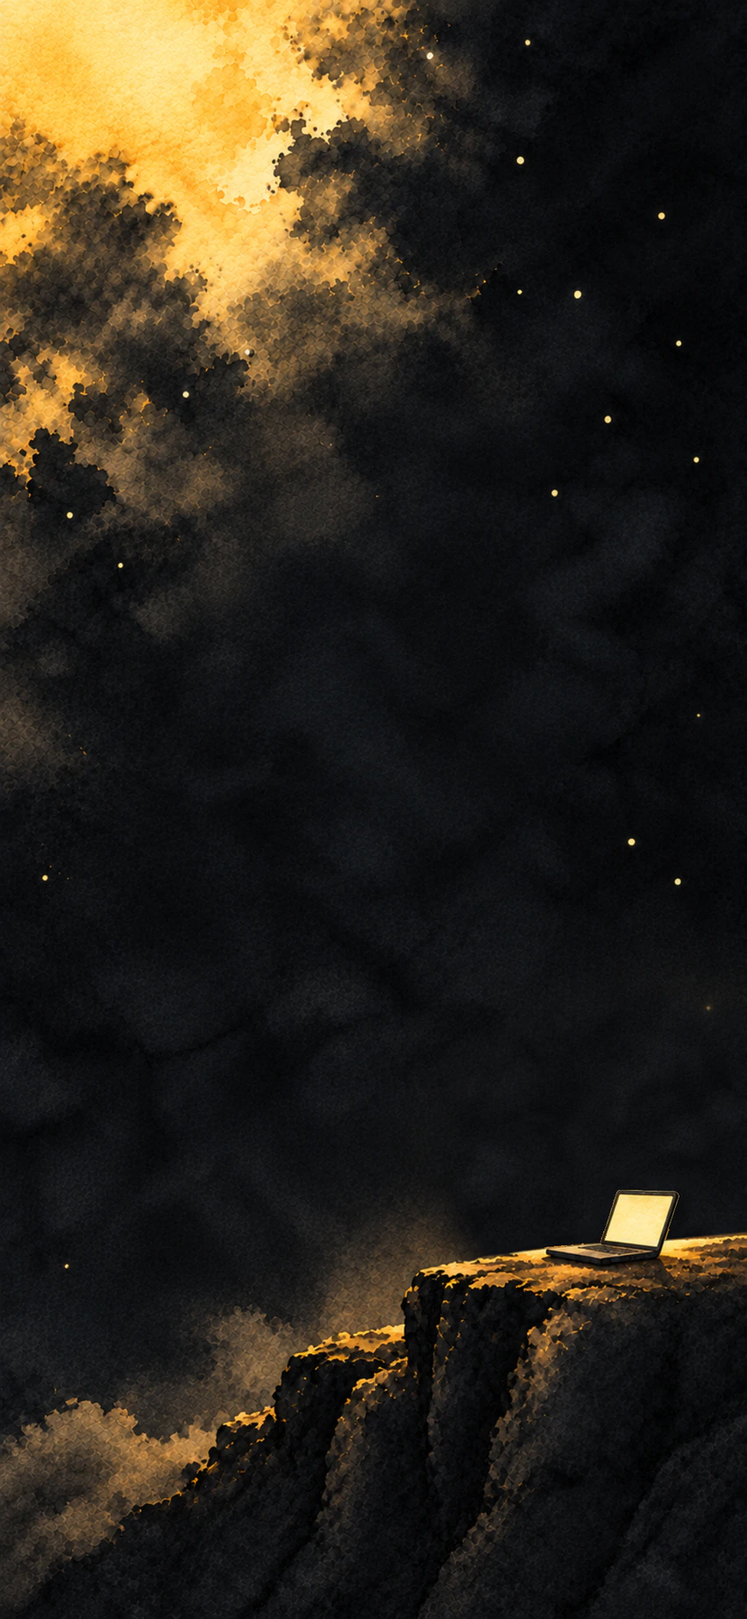
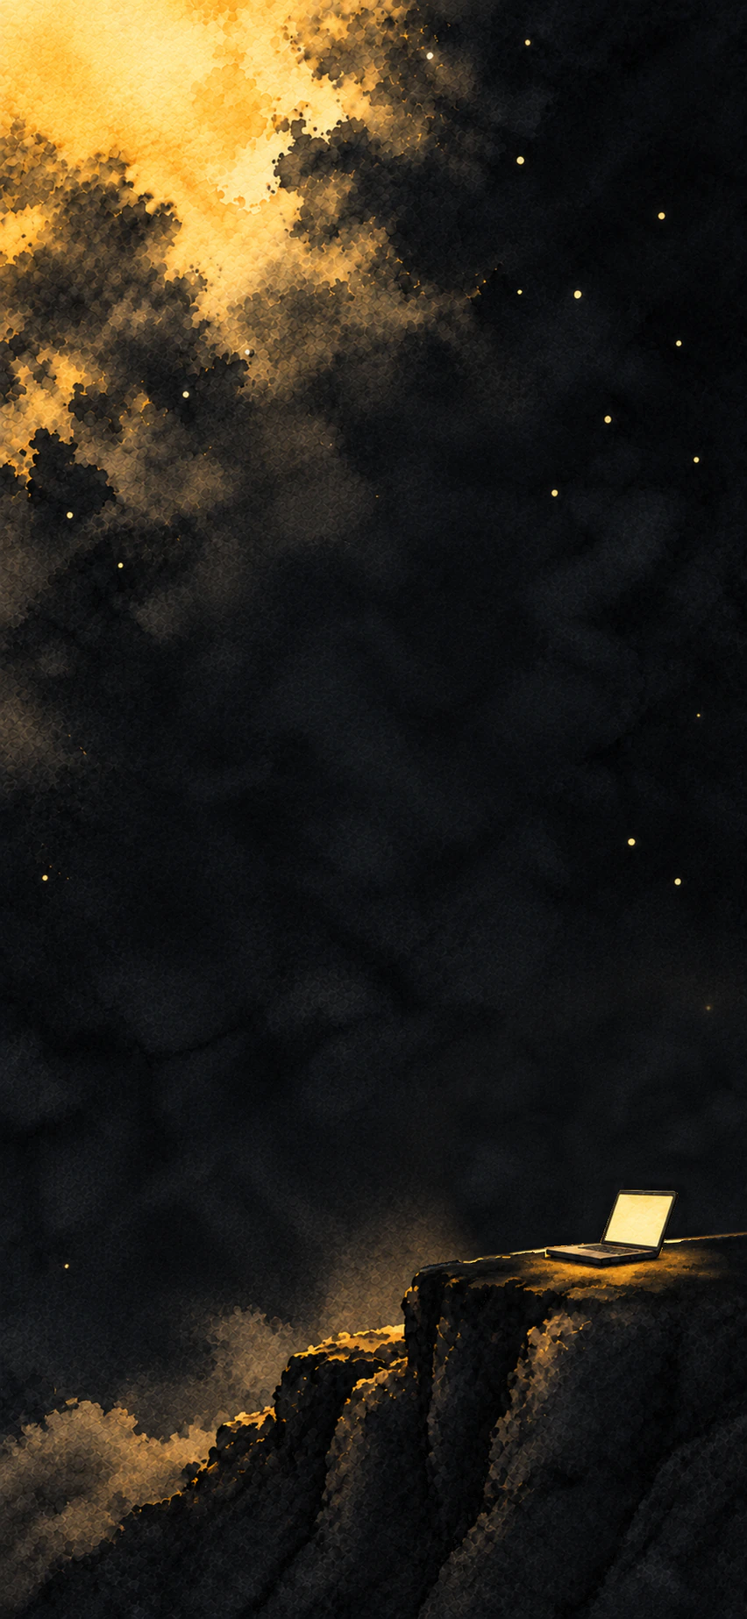
Repainted sunrise laptop and making cliff light, rebuilt assets
- Sunrise: new warm watercolor laptop on its own flat rock (Astra, gpt-6-astra),
  placed beside the coffee at ~2.2x the mug width (smaller on mobile), glint on
  the lid's sunlit edge; art.ts regenerated
- Making: cliff top inpainted so the light pools around the laptop screen and
  the warm bezel fringe is gone; laptop, screen and silhouette pixel-identical
  (audit masks in docs/art/making/cliff-light-masks/); plates rebuilt

Changed region(s): [[0.5493, 0.7411, 1.0, 0.8337]]

diff --git a/src/lib/home/sections/sunrise/layout.ts b/src/lib/home/sections/sunrise/layout.ts
@@ -40,9 +40,11 @@ const PATH_SURFACE: [number, number][] = [
 /** Coffee master (600×600): where the rock meets the ground, and the box above the cup mouth for the steam. */
 const COFFEE_BASE = { x: 300, y: 530 };
 const COFFEE_STEAM: Rect = { x: 222, y: -230, w: 150, h: 420 };
-/** Laptop master (docs/art/sunrise/sunrise-laptop.png): where its underside meets the ground, and the lid's sunlit edge for the glint. */
-const LAPTOP_BASE = { x: 599, y: 500 };
-const LAPTOP_GLINT: Rect = { x: 820, y: 250, w: 240, h: 150 };
+/** Laptop master (docs/art/sunrise/sunrise-laptop.png, 1400×700, the closed laptop on its own flat rock): where the rock's
+ *  broad base meets the ground (a little above its rounded lowest point, so it sits in the path), and the lid's sunlit
+ *  right edge for the glint. */
+const LAPTOP_BASE = { x: 670, y: 588 };
+const LAPTOP_GLINT: Rect = { x: 1000, y: 150, w: 240, h: 220 };
 /** The sun baked into each sky plate (fraction of the plate), see docs/art/sunrise/README.md. */
 const SKY_SUN: Record<Breakpoint, { x: number; y: number }> = { desktop: { x: 0.79, y: 0.68 }, mobile: { x: 0.78, y: 0.5 } };
 
@@ -74,7 +76,8 @@ const PLACEMENT: Record<Breakpoint, Placement> = {
 		valley: { x: 0, y: 29.2, w: 100 },
 		cliffPath: { x: -2, y: 46.5, w: 104 },
 		coffee: { x: 9.5, w: 8.6, sink: 0.6 },
-		laptop: { x: 21, w: 17.2, sink: 0.6 },
+		// body ≈ 2.2 × the mug's width (the masters' px scale: coffee ÷ 1.286, docs/art/sunrise/README.md)
+		laptop: { x: 22, w: 15.6, sink: 0.6 },
 		nightEdge: { x: 0, w: 100, from: 30, to: -52 },
 		sunGlow: 22
 	},
@@ -83,7 +86,8 @@ const PLACEMENT: Record<Breakpoint, Placement> = {
 		valley: { x: -82, y: 26, w: 205 },
 		cliffPath: { x: -14, y: 52, w: 150 },
 		coffee: { x: 12, w: 22, sink: 1 },
-		laptop: { x: 42, w: 44, sink: 1 },
+		// smaller than the desktop ratio, so it doesn't dominate the narrow scene
+		laptop: { x: 37, w: 33, sink: 1 },
 		nightEdge: { x: -80, w: 260, from: 55, to: -50 },
 		sunGlow: 46
 	}

diff --git a/src/lib/home/sections/sunrise/art.ts b/src/lib/home/sections/sunrise/art.ts
@@ -13,5 +13,5 @@ export const ART_BOXES = {
 	valley: { canvas: { width: 2560, height: 900 }, crop: { x: 0, y: 256, width: 2560, height: 641 } },
 	cliffPath: { canvas: { width: 2560, height: 600 }, crop: { x: 0, y: 38, width: 2560, height: 534 } },
 	coffee: { canvas: { width: 600, height: 600 }, crop: { x: 5, y: 141, width: 592, height: 424 } },
-	laptop: { canvas: { width: 1200, height: 600 }, crop: { x: 89, y: 117, width: 995, height: 403 } }
+	laptop: { canvas: { width: 1400, height: 700 }, crop: { x: 35, y: 145, width: 1334, height: 487 } }
 } as const satisfies Record<string, ArtBox>;

diff --git a/src/lib/home/sections/sunrise/Sunrise.svelte b/src/lib/home/sections/sunrise/Sunrise.svelte
@@ -116,7 +116,7 @@
 			alt=""
 			class="placed art"
 			style={place.laptop}
-			sizes="(min-width: 48rem) 14vw, 36vw"
+			sizes="(min-width: 48rem) 15vw, 32vw"
 			loading="lazy"
 			decoding="async"
 		/>

diff --git a/docs/art/sunrise/PROMPTS.md b/docs/art/sunrise/PROMPTS.md
@@ -94,52 +94,58 @@ Inspected every generation and the final composite. Cutouts checked over #FCD772
 
 ## sunrise-laptop.png
 
-Repainted on 2026-11-03 with the built-in image_gen tool, highest available quality requested. The tool exposes no separate model, quality, or exact-size argument. No CLI/API fallback or dependency installation.
+Replaced on 2026-11-03 using the built-in image_gen tool with highest available quality requested. The tool exposes no model selector, quality parameter or exact-size parameter. All three generations were native 1774×887 RGBA. No CLI/API fallback, installation or git commands.
 
-References (opened and inspected before prompting): `sunrise-coffee.png` (strict painting hand, ink, grain, scale and camera lock), `sunrise-cliff-path.png` (ground and light), `sunrise-valley.png` and `sunrise-sky.png` (palette and atmosphere), the rejected `sunrise-laptop.png`, and its QA composite `C:/Users/peter/AppData/Local/Temp/sunrise-laptop-qa-X6xK4f/laptop-coffee-path.png`. The old QA composite was inspection context only.
+All four references were opened and inspected, then passed to every generation in this order:
 
-Final generated source: `exec-faa50f6e-5dff-47bd-bba9-e629be963548.png`, native 1774×887, from the tool's `generated_images/01a1a348-d1f1-70b2-9e89-449f48e4302e/` directory.
+1. sunrise-coffee.png: ink weight, pigment and camera height.
+2. sunrise-valley.png: palette and atmosphere.
+3. sunrise-cliff-path.png: warm rock material and foreground light.
+4. sunrise-sky.png: low butter/ochre sun from the right.
 
-Rejected original: `exec-1f4c8a8d-f952-42aa-b96b-41f46c278c0b.png`. The art lead rejected its machine-rounded outline, tablet-like thinness and missing hinge, weak contact shadow, and overly uniform orange mottling. The previous acceptance notes are superseded. The earlier tan-ground-halo attempt also remains rejected.
+The previously rejected sunrise-laptop.png was not opened or passed as a style reference. Its old acceptance notes are superseded by this replacement.
 
-First repaint, references in order: coffee, cliff path, sky, valley, rejected laptop (pose only). Rejected source: `exec-9343e093-a738-441b-8185-19a9a6445303.png`. Hinge and base improved, but the front contour remained too regular and a pale gray shadow fringe appeared on anthracite.
+### Attempt 1 — rejected
 
-```text
-Use case: illustration-story. Repaint ONE transparent watercolor-and-ink production sprite: a CLOSED LAPTOP, lying flat, the shift is over. Highest available generation quality and fidelity. Intended final canvas 1200x600 (2:1). Real transparent RGBA, generous transparent margins, nothing cropped.
-REFERENCES: image 1 sunrise-coffee.png is the STRICT STYLE LOCK: exactly the same painter's hand, same dark sepia hand-drawn ink with subtly wobbly varying weight, same pigment granulation, paper grain within paint, watercolor pooling and soft bleeding pigment edges. Image 2 cliff path is context for ground contact and upper-right light. Image 3 sky and image 4 valley are palette/atmosphere only. Image 5 is a REJECTED previous laptop: use only its approximate placement and foreshortened pose, DO NOT copy its machine-perfect contours, tablet thinness, even orange blotches or smooth rendered appearance.
-Paint the laptop afresh as an ink-and-watercolor drawing made by the artist who painted the mug. The outer edges must be human ink strokes with slight irregularity and intermittent pigment bleed, including subtly irregular corners. Not a perfect rounded rectangle filled with watercolor texture. No CAD or vector shape, no product rendering, no smooth bevel shader. The linework must be as visible and expressive as the mug's outline at the SAME PIXEL SCALE.
-Unmistakably a CLOSED LAPTOP: two distinct stacked slabs, thin lid seated on a visibly thicker base, dark separation seam. A visible rounded hinge barrel runs along the rear edge with small breaks at its ends. Show a discreet dark port slot on the shaded side and one tiny rubber foot in contact with the ground. Lid fully shut with no screen visible. Unbranded blank lid, no symbols.
-Geometry: three-quarter view from slightly above, matching the shallow ellipse of the coffee rim. Foreshortened parallelogram, rotated roughly 15–25 degrees in plan, broad front edge visible. Body approx 950 pixels wide on 1200 canvas; coffee mug including handle is approx 370 px. Lowest front body corner meets ground around y=500. Keep top plane shallow enough for this camera; body thickness visible and painterly, not a chunky box.
-VALUE AND LIGHT: anthracite #18191B and dusk #2A2723 painted metal. Cool dark gray left/front shaded faces. Soft butter #FCD772 and ochre #E2A93B glazes gather on the upper-right portion of lid, smoothly transition through neutral gray into darker cool left. Restrained organic blooms and grain, NOT orange camouflage all over. A slender crisp cream #FBF3DD / butter hand-painted highlight follows right and top lid edges, with small natural ink interruptions, as on the mug's sunlit rim. Light comes from upper right.
-GROUND CONTACT: a DARK warm sepia occlusion stroke tightly touches the entire underside, darkest at the lowest front corner. Short soft semi-transparent dark dusk watercolor shadow hugs underside and falls a little LEFT. The shadow must visibly ground it on an ochre path; no light pigment underlay, no tan paper halo. Only dark transparent pigment outside body, fading into actual transparency. Absolutely no painted ground or rock.
-Palette limited to cream #FBF3DD, butter #FCD772, ochre #E2A93B, anthracite #18191B, dusk #2A2723 and related cool gray watercolor mixtures. NO exact white/black. No logo, text, sticker, cup, steam, rock, landscape, character, UI, frame, checkerboard or opaque backdrop. The only output is the laptop and its short dark contact shadow.
-```
+Source: `C:/Users/peter/.codex/generated_images/01a1a373-a5ca-7cf1-85cf-b29b7873617f/exec-9edd3705-e974-4ec6-9fc7-0e0e9c6c2594.png`.
 
-Second repaint, references in order: coffee, cliff path. Source: `exec-6e84aa7a-c3c0-4255-8554-75d7eccd4f74.png`. Accepted the more irregular ink contour, two slabs, hinge barrel and joints, side port, small feet and structured light; rejected the remaining gray underlay visible on the dark background.
+Inspected on butter and anthracite and beside the mug at a 2.2:1 body-width ratio. Warm illumination and contact were convincing, but the body read champagne gold instead of silver, and the perimeter was too uniformly smooth.
 
 ```text
-Use case: illustration-story. Paint a closed laptop in EXACTLY the traditional watercolor and ink style of reference image 1, the coffee mug. Image 2 is the path it will sit on, for lighting only. This is one isolated production PNG on REAL TRANSPARENT ALPHA, requested 1200x600. Highest available quality. No background, no paper rectangle. Only laptop and short DARK transparent shadow.
-The SAME ILLUSTRATOR who drew this mug has drawn a closed laptop next to it: variable-weight dark sepia ink, hand wobble along long edges, tiny overlapping pen strokes at corners, natural ink bleed into pigment, imperfect gently uneven contour. Hand-drawn first, pigment watercolor second. Do not draw a geometrically perfect shape and texture it. Match the mug's fine paper fibers, translucent granular washes and irregular pigment pooling. No smooth digital rendering, no photoreal metal, no vector bevels, no airbrushed uniform surfaces. Ink line thickens in shade and becomes thin and interrupted in the sun.
-Closed generic laptop lying flat on the ground, lid completely shut. Foreshortened parallelogram, three-quarter camera slightly above like the coffee mug, rotated 15-25 degrees in plan. Thin lid on thicker base, obvious dark lid/base seam. Visible rounded rear hinge barrel joining lid and base, with two modest hinge joints. One subtle side port, small rubber foot. No logo, no text, no sticker, no screen.
-Object about 950px wide on 1200x600 canvas, centered x=600, lowest front corner contact around y=500, fully visible with transparent padding. Visible top plane, front and side faces. Body modestly thick enough to read as a laptop; not a tablet and not a box.
-A quiet dark anthracite/dusk lid illuminated from UPPER RIGHT by butter-yellow dawn. Cool charcoal watercolor shade on left third and front face. Soft warm butter glazes on right third; muted gray midtones connect them. Restrained irregular watercolor blooms and granulation, not orange camouflage. Slim crisp cream/butter broken brush highlight on right edge and top edge of lid, like cup rim. Palette cream #FBF3DD, butter #FCD772, ochre #E2A93B, anthracite #18191B, dusk #2A2723; related muted grays allowed.
-The base rests HEAVILY against the ground with a DARK sepia-black occlusion line immediately beneath it, especially front corner. A SHORT shadow of TRANSLUCENT DARK PIGMENT hugs underside and extends a little LEFT. This shadow is made only of dark #18191B / #2A2723 pigment at partial opacity. NO PALE GRAY, TAN OR CREAM SHADOW PIXELS, NO LIGHT UNDERLAY, NO GROUND PATCH, NO HALO. Outside body and dark translucent shadow everything is transparent. Shadow should almost disappear when placed on #18191B. Preserve real graded alpha. Do not paint paper outside the object.
-Nothing except closed laptop and small dark contact shadow. No cup, rock, grass, scenery, person, text, logo, UI, frame, pure black or pure white.
+Use case: stylized-concept. Highest available image quality. Production watercolor-and-ink cutout for solo-stack.dev. References in order: 1 coffee mug is the exact ink line weight, pigment granulation and camera-height reference; 2 sunrise valley, 3 sunrise cliff path, 4 sunrise sky are the warm palette and low sun from the right references. These are style references only, do not reproduce the mug or landscape. Transparent PNG, 1400×700. A closed silver laptop lying slightly askew on a flat grey rock, the same watercolor-and-ink style as the attached sunrise valley and coffee mug: warm butter-yellow #FCD772 and ochre light from a low sun at the right, anthracite #1C1D1D ink linework matching the mug's weight, lid catching a warm glint along its right edge, cool-free palette (no blue). Soft painted contact shadow and a few dry grass blades in front. Three-quarter view from slightly above, same camera height as the mug. No logo, no text, no stickers, no screen visible. Granulating pigment, paper grain, real alpha with fractional edges. Silver is WARM light grey with taupe shaded areas and a definite butter reflected light, never blue-grey. Match the mug's thin irregular anthracite ink contour when the laptop body is displayed at 2.2 times the mug width including handle. The rock is a low broad flat stone, not a tall pedestal; rock shadows have the warm charcoal pigment of the reference rocks. Clearly closed laptop with thin lid over slightly thicker base and readable separation seam. Warm glint on right edge, left underside visibly occluded onto the stone; irregular wet-on-wet pigment blooms and fine paper tooth in both metal and rock. This is a hand-painted illustration, not product rendering or vector art. Complete isolated subject with generous truly transparent margins on ALL FOUR sides, no cropping. No background, no white paper sheet, no pale matte or halo, no checkerboard, no pure black or pure white. Preserve partially transparent pigmented perimeter.
 ```
 
-Final corrective generation, references in order: second repaint, coffee master. Replaced only the gray cast-shadow treatment with much darker translucent pigment while retaining the selected laptop drawing.
+### Attempt 2 — selected
+
+Source: `C:/Users/peter/.codex/generated_images/01a1a373-a5ca-7cf1-85cf-b29b7873617f/exec-0e6e0517-8129-4b82-89d0-df88a31f2925.png`.
+
+Selected after butter, anthracite and cliff-path/mug comparison. Better warm silver-gray body, localized right sunlight, lower camera angle, fine ink and integrated contact shadow.
 
 ```text
-Use case: precise-object-edit. Image 1 is the selected hand-painted closed laptop; image 2 is the coffee style lock. Preserve the laptop exactly: painterly irregular sepia ink contours, body proportions, perspective, lid/base seam, two rear hinge joints and barrel, small side port and feet, pigment texture and upper-right butter/cream light. Preserve original transparent 2:1 canvas and placement. Highest quality.
-Change ONLY the cast shadow outside/beneath the laptop. The current gray wash is visible as a pale border on an anthracite background. Replace it with MUCH DARKER neutral warm-black pigment, RGB approximately (24,23,23), at GRADED PARTIAL ALPHA. It must be a darkening shadow, not gray paper. Keep strongest dark occlusion touching front underside and feet; soft short feather toward LEFT. The entire shadow uses this very dark pigment with opacity variation; no light gray/brown/tan pigment outside the body. No extra ground, no opaque mat, no lighter perimeter, no detached shadow. Preserve watercolor softness in alpha. On #18191B, the shadow should practically vanish; on #FCD772 it should clearly darken the ground under the laptop. NO pure black/white, no white fringe. Do not change the laptop painting, camera, blank lid, or highlights. No other objects. Real transparent RGBA.
+Use case: stylized-concept. Highest available image quality. Production watercolor-and-ink cutout for solo-stack.dev. References in order: 1 coffee mug is the exact ink line weight, pigment granulation and camera-height reference; 2 sunrise valley, 3 sunrise cliff path, 4 sunrise sky are the warm palette and low sun from the right references. These are style references only, do not reproduce the mug or landscape. Transparent PNG, 1400×700. A closed silver laptop lying slightly askew on a flat grey rock, the same watercolor-and-ink style as the attached sunrise valley and coffee mug: warm butter-yellow #FCD772 and ochre light from a low sun at the right, anthracite #1C1D1D ink linework matching the mug's weight, lid catching a warm glint along its right edge, cool-free palette (no blue). Soft painted contact shadow and a few dry grass blades in front. Three-quarter view from slightly above, same camera height as the mug. No logo, no text, no stickers, no screen visible. Granulating pigment, paper grain, real alpha with fractional edges. Silver is WARM light grey with taupe shaded areas and a definite butter reflected light, never blue-grey. Match the mug's thin irregular anthracite ink contour when the laptop body is displayed at 2.2 times the mug width including handle. The rock is a low broad flat stone, not a tall pedestal; rock shadows have the warm charcoal pigment of the reference rocks. Clearly closed laptop with thin lid over slightly thicker base and readable separation seam. Warm glint on right edge, left underside visibly occluded onto the stone; irregular wet-on-wet pigment blooms and fine paper tooth in both metal and rock. This is a hand-painted illustration, not product rendering or vector art. Complete isolated subject with generous truly transparent margins on ALL FOUR sides, no cropping. No background, no white paper sheet, no pale matte or halo, no checkerboard, no pure black or pure white. Preserve partially transparent pigmented perimeter.
+Refinement for this fresh painting: the LAPTOP MUST READ AS SILVER, not gold, bronze, beige or cream ceramic. Most of the lid is light warm-neutral SILVER GRAY, made by a diluted warm anthracite wash: gray with only a faint warm bias (red >= green >= blue), with deeper warm charcoal shade at left. Reserve strong yellow/ochre sunlight to the right quarter and the narrow bright right edge. The stone is predominantly dark warm GRAY with a few ochre-lit areas, exactly like the mug's stone. Do not cover the laptop or rock in a uniform brown/tan glaze. Thin contour with human ink wobble, varying pressure, little interrupted strokes at lit edges; avoid a mechanically straight continuous vector contour. Keep all original subject, camera, alpha, and reference constraints.
 ```
 
-Export processing (existing sharp 0.35.5, no new dependencies):
+### Attempt 3 — rejected
 
-- Crop transparent margins from the 1774×887 source at (165,218,1398,553), retaining every source pixel with alpha >= 3. Lanczos3-resample to 983×389. Add transparent padding: left 94 px, right 123 px, top 125 px, bottom 86 px, for 1200×600. No body or shadow cropping, manual repainting, sharpening or color grading.
-- Preserve generated graded alpha; alpha < 3 becomes 0. Exact RGB (0,0,0) becomes #18191B and (255,255,255) becomes #FBF3DD, including hidden RGB. Save non-indexed 8-bit RGBA PNG with adaptive filtering and compression level 9.
-- Body width 950 px at the coffee master's pixel scale. Ground-contact anchor: **(766,500)** at the lowest front-right corner's small rubber foot; visual horizontal center: **x=599** (rounded body-bounds midpoint). Coordinates are zero-based from master top left; the anchor excludes the feathered shadow.
-- Code glint target: **(781,235,285,215)** as (x,y,width,height), enclosing the sunlit diagonal right edge of the lid. Its highlight runs approximately from (1058,245) to (790,442); follow that edge rather than filling the bounding rectangle. The rear hinge and top rim sit outside most of this box.
-- Verified 1200×600, 590,095 bytes, alpha 0–255 with 254 distinct levels (1 and 2 absent), 461,371 transparent pixels, 258,270 graded pixels, 359 fully opaque pixels, zero exact black/white RGB pixels, and fully transparent canvas borders. Nonzero-alpha bounds: (94,125)–(1076,513); alpha >= 250 body bounds: (124,127)–(1073,500).
-- Visually inspected over #FCD772 and #18191B, beside the coffee at equal 1:1 master scale, and on the cliff-path crop. Same-painter check: compatible granular washes and paper grain, visibly irregular sepia contours with dark seams and broken cream highlights. Closed-laptop check: distinct lid/base, rear hinge, port and feet. Grounding check: dark occlusion at the underside and foot, short shadow falling left; no light ground halo on anthracite.
-- QA files outside the repository: `C:/Users/peter/AppData/Local/Temp/sunrise-laptop-repaint-y4y6oc/` contains `laptop-butter.png`, `laptop-night.png`, `laptop-coffee-path.png`, `laptop-coffee-style.png`, `contact-detail.png` and `qa.json`. Path QA uses the left 1000×600 path crop at 3× scale, clipped to 1900×1200; laptop at (640,70), coffee at (50,-90), both at identical 1:1 master scale. Rejected original and attempt composites remain in the same temporary directory.
+Source: `C:/Users/peter/.codex/generated_images/01a1a373-a5ca-7cf1-85cf-b29b7873617f/exec-a7f37f38-b4a9-4d9e-b953-a10a18db4426.png`.
+
+Inspected on both brand backgrounds and the path beside the mug. Stronger charcoal rock texture, but a more top-down view than the mug and tighter side margins made it weaker than attempt 2.
+
+```text
+Use case: stylized-concept. Highest available image quality. Production watercolor-and-ink cutout for solo-stack.dev. References in order: 1 coffee mug is the exact ink line weight, pigment granulation and camera-height reference; 2 sunrise valley, 3 sunrise cliff path, 4 sunrise sky are the warm palette and low sun from the right references. These are style references only, do not reproduce the mug or landscape. Transparent PNG, 1400×700. A closed silver laptop lying slightly askew on a flat grey rock, the same watercolor-and-ink style as the attached sunrise valley and coffee mug: warm butter-yellow #FCD772 and ochre light from a low sun at the right, anthracite #1C1D1D ink linework matching the mug's weight, lid catching a warm glint along its right edge, cool-free palette (no blue). Soft painted contact shadow and a few dry grass blades in front. Three-quarter view from slightly above, same camera height as the mug. No logo, no text, no stickers, no screen visible. Granulating pigment, paper grain, real alpha with fractional edges. Silver is WARM light grey with taupe shaded areas and a definite butter reflected light, never blue-grey. Match the mug's thin irregular anthracite ink contour when the laptop body is displayed at 2.2 times the mug width including handle. The rock is a low broad flat stone, not a tall pedestal; rock shadows have the warm charcoal pigment of the reference rocks. Clearly closed laptop with thin lid over slightly thicker base and readable separation seam. Warm glint on right edge, left underside visibly occluded onto the stone; irregular wet-on-wet pigment blooms and fine paper tooth in both metal and rock. This is a hand-painted illustration, not product rendering or vector art. Complete isolated subject with generous truly transparent margins on ALL FOUR sides, no cropping. No background, no white paper sheet, no pale matte or halo, no checkerboard, no pure black or pure white. Preserve partially transparent pigmented perimeter.
+Refinement for this fresh painting: the LAPTOP MUST READ AS SILVER, not gold, bronze, beige or cream ceramic. Most of the lid is light warm-neutral SILVER GRAY, made by a diluted warm anthracite wash: gray with only a faint warm bias (red >= green >= blue), with deeper warm charcoal shade at left. Reserve strong yellow/ochre sunlight to the right quarter and the narrow bright right edge. The stone is predominantly dark warm GRAY with a few ochre-lit areas, exactly like the mug's stone. Do not cover the laptop or rock in a uniform brown/tan glaze. Thin contour with human ink wobble, varying pressure, little interrupted strokes at lit edges; avoid a mechanically straight continuous vector contour. Keep all original subject, camera, alpha, and reference constraints.
+Final style emphasis: the mug reference has deep charcoal mineral facets, broken ochre pigment on its rock, and varied very fine ink strokes. Match that exact stone contrast and irregular pigment shapes. Keep the flat supporting rock low with a narrow visible top and dark contact shadow directly beneath the laptop. The laptop's long perimeter is an expressive fine ink stroke with tiny interruptions, never a CAD stroke. Keep a quiet predominantly warm silver-gray center of lid, ochre light restricted toward right, visibly granular washed pigment with natural tide marks as on the mug. Avoid smooth airbrush over the rock.
+```
+
+### Export and QA
+
+- Existing sharp 0.35.5 only. Downsample the complete 1774×887 source to 1400×700 using Lanczos3; no crop, padding change, sharpening or global color grade.
+- Decode to straight RGBA. Alpha <3 becomes 0. Exact RGB black becomes #1C1D1D; exact white becomes #FBF3DD, including hidden RGB. Normalize 128 visible blue numerical artifacts (HSV hue 170–280°, saturation >8%) to a warm neutral at their luminance, bounded to avoid RGB extremes; preserve their alpha. Generated pigment and shapes otherwise remain intact.
+- Encode with explicit raw width/height/channels, without propagating resize output premultiplication metadata. This avoids a second unpremultiplication and bright edge artifacts. Save non-indexed 8-bit RGBA PNG with adaptive filtering and compression level 9. Verify decoded pixels equal the sanitized raw buffer exactly.
+- Final: 1400×700, 1,104,418 bytes; 531,439 alpha-zero, 447,944 fractional-alpha, 617 opaque pixels; 254 alpha levels (0 and 3–255), transparent borders, no exact black/white RGB and no visible blue pixels under the stated threshold.
+- Body hue measured within a hand-traced inner body polygon: (202,238), (952,157), (1228,351), (1227,395), (355,477), (199,276), alpha >128. 220,300 sampled pixels, mean RGB (197.70,170.17,137.14), saturation/alpha-weighted circular hue 31.15°.
+- Final placement measurements: rock-bottom anchor (450,625); highest visible rock top y≈322, supporting top at (700,458); approximate body bbox (191,151,1047,334), expressed as x,y,width,height. These are final-master coordinates, not native generation coordinates.
+- Mug assumption: 370 px width including handle on the 600 px master. Body 1047 px / (370 × 1.286240786) = 2.2. For the scene QA, laptop scale 0.55 and coffee scale 0.707432432 give widths 575.85 and 261.75 px.
+- Path QA canvas: 1400×900 over #FCD772. The source cliff-path crop (0,0,1400,600) is placed at (0,300). Laptop 770×385 at (570,206); coffee 424×424 at (60,56). These placements demonstrate relative scale and contact; integration may reposition both assets.
+- Final composites visually inspected after corrected export: `C:/Users/peter/AppData/Local/Temp/sunrise-laptop-warm-wHTTQ3/laptop-butter.png`, `C:/Users/peter/AppData/Local/Temp/sunrise-laptop-warm-wHTTQ3/laptop-night.png`, `C:/Users/peter/AppData/Local/Temp/sunrise-laptop-warm-wHTTQ3/laptop-coffee-path.png`, `C:/Users/peter/AppData/Local/Temp/sunrise-laptop-warm-wHTTQ3/contact-detail.png`. Metrics and color-mask definition: `C:/Users/peter/AppData/Local/Temp/sunrise-laptop-warm-wHTTQ3/qa.json`. Attempts and intermediate QA also remain in that temp directory; only the final three named laptop composites reflect the corrected export.

diff --git a/docs/art/making/PROMPTS.md b/docs/art/making/PROMPTS.md
@@ -241,3 +241,147 @@ The following records compare decoded RGB pixels against the pre-edit files. SHA
 ```
 
 Blank screen interior was additionally checked independently: zero changed pixels in both plates. Saved final PNGs were read back and matched the recorded final SHA-256 values.
+
+
+## Registered local cliff-light repair - 2026-11-03
+
+Tool: built-in `image_gen.imagegen`, underlying model not exposed; highest quality requested, no selectable model/quality/native-mask option. `transparent_background: false`. Four generation calls: two per plate. Grayscale mask supplied as image 2 is a visual guide; exact pixel confinement comes from final compositing.
+
+### Input crops and attempts
+
+Originals were copied before edits to `C:/Users/peter/AppData/Local/Temp/making-cliff-light-20261103/desktop-original.png` and `mobile-original.png`.
+
+- Desktop target: original crop (1560, 800, 2560, 1440), 1000x640. Both generated outputs: 1568x1003.
+- Mobile target: original crop (280, 1600, 1080, 2240), 800x640. Both generated outputs: 1402x1122.
+- Each call received `{desktop,mobile}-before.png` first and `{desktop,mobile}-mask-crop.png` second, in that order, from the temp directory above.
+- First pair rejected: too strong a continuous cool-grey rim and hard geometric pigment. The first composites also retained excess gold just inside the protected silhouette because the initial inner feather was too broad.
+- Second pair selected: softer irregular pigment and a localized laptop light pool. Subsequent deterministic mask corrections narrowed the inner feather, protected the vertical left cliff edge, and prevented the old bezel fringe being misidentified as a cliff silhouette. No additional generations were needed.
+
+### Rejected first pair outputs
+
+- desktop: `C:/Users/peter/.codex/generated_images/01a1a373-d58d-7fa1-8819-ab4337127dbd/exec-becffc26-c799-4870-aa13-6bfeb4649189.png`.
+- mobile: `C:/Users/peter/.codex/generated_images/01a1a373-d58d-7fa1-8819-ab4337127dbd/exec-03a762ce-4a3c-45f8-b279-94fc25ac4430.png`.
+### Selected second pair outputs
+
+- desktop: `C:/Users/peter/.codex/generated_images/01a1a373-d58d-7fa1-8819-ab4337127dbd/exec-e96f9cb7-4c8c-426c-8a98-285e5fcbf5f1.png`.
+- mobile: `C:/Users/peter/.codex/generated_images/01a1a373-d58d-7fa1-8819-ab4337127dbd/exec-32d785c5-a89c-487a-a672-adac1b8af43b.png`.
+
+### First-generation exact desktop prompt
+
+```text
+Use case: lighting-weather. Highest available quality, precise registered watercolor-ink image repair. Image 1 is the edit target crop, image 2 is its grayscale edit guide: white=repaint, black=preserve, grey=feather. Repaint only the lit top edge of this dark rock cliff in the same watercolor-ink style: light comes from the small laptop screen only, a warm pool around the laptop fading out within ~1.5 laptop widths, with a few sparse ochre catch-lights on ledges further away; the rest of the cliff top stays dark anthracite with subtle cool-grey rim. Keep the laptop, the screen and the cliff silhouette pixel-identical. Remove the faint warm exterior fringe around the laptop bezel: background immediately beside it must match surrounding dark night. Preserve all actual laptop frame and body pixels, blank screen, and silhouette. Match the original coarse irregular watercolor pigment granulation and angular stone texture, no fine sand or smear. The current continuous full-width gold stripe must disappear except for the small localized pool of screen light. No bright outline across the whole cliff, no new sky glow. Maintain original framing and every rock feature. Output image 1 only, opaque RGB, no text or comparison. Target desktop.
+```
+
+The mobile call replaced only `Target desktop.` with `Target mobile crop.`.
+
+### Second-generation exact desktop prompt
+
+```text
+Use case: lighting-weather. Highest available image quality. Image 1 is original edit target, image 2 white=repaint black=protect mask. Repaint only the lit top edge of this dark rock cliff in the same watercolor-ink style: light comes from the small laptop screen only, a warm pool around the laptop fading out within ~1.5 laptop widths, with a few sparse ochre catch-lights on ledges further away; the rest of the cliff top stays dark anthracite with subtle cool-grey rim. Keep the laptop, the screen and the cliff silhouette pixel-identical. VERY IMPORTANT: preserve irregular original large coarse watercolor granules and rock features. Do not sharpen into little geometric tiles. No continuous grey/blue border or thick dark band; cool rim must be very subtle, intermittent and dark, almost invisible. Maintain natural irregular transitions in the rock. Outside the small laptop light pool the gold stripe becomes very dark charcoal pigment, with only a few isolated tiny warm flecks. Do not relocate or recreate rock formations. The exterior bezel fringe is removed to dark night, but actual laptop body and blank cream screen are unchanged. Keep exact image framing. No new light, new objects, moon, typography, collage. Output only repaired image 1, opaque RGB. Target desktop.
+```
+
+The mobile call replaced only `Target desktop.` with `Target mobile crop.`.
+
+### Masking, compositing and limits
+
+Final masks are `cliff-light-masks/desktop.png` and `cliff-light-masks/mobile.png`, full-size 8-bit grayscale. Black copies original RGB bytes verbatim, white replaces with generated pixels, intermediate grey feathers. Support includes only the main top ledge, a small amount of its rock face, and thin exterior bezel background. Lower stepped ledges and broad existing golden washes were excluded. Mask bounds and counts below are authoritative.
+
+The cliff skyline was traced near its visible warm transition, with the laptop and its surrounding 15-pixel neighborhood excluded from edge detection. A 5x5 dilation of the one-pixel trace protects two pixels on either side. The actual cliff remains unchanged above that trace as well; the left vertical silhouette is excluded by inward support clipping. The inner top feather reaches full weight over 1.5 pixels beyond the guard; bottom feather is 28 pixels; left feather is 14 pixels. The body/screen protection polygon includes its antialias boundary. On the bezel's right, detached warm background peaks were separated from the actual dark frame by the intervening dark trough; the trough and inner frame remain protected. Guard masks and fringe traces are saved in the temp directory for inspection. These detached background pixels are not part of the laptop frame.
+
+Generated output was bilinearly mapped only to its input crop dimensions. For the exterior sky ring, generated dark sky sampled 120 crop pixels above was used to prevent a regenerated screen or frame from leaking into the repair. Compositing is `round(original * (1 - mask/255) + generated * mask/255)`. Exact black/white pixels introduced inside support were remapped to #0E0F10 / #FBF3DD; all pixels where mask=0 were then copied directly from the original. No original whole-plate resampling or color conversion was performed. Export is opaque 8-bit RGB, sRGB intent 0.
+
+A thin warm hairline remains exactly where the requested two-pixel silhouette guard protects original pigment. It is not an unremoved broad surface stripe. Original warmth intrinsic to the preserved laptop frame also remains. Recoloring either protected feature would violate the pixel-identity requirement.
+
+### Final verification
+
+Audits compare decoded RGB against the pre-edit copies. Outside-mask SHA-256 values concatenate RGB triples in raster order. The silhouette count covers the traced main ledge and its guard; all remaining skyline lies entirely outside repair support and is therefore also byte-identical. Screen is checked independently of the larger laptop polygon. Both masters were inspected at full-plate scale, repair crops at native 100%, and bezel crops at 400%.
+
+```json
+{
+  "desktop": {
+    "file": "making-plate.png",
+    "dimensions": [
+      2560,
+      1440
+    ],
+    "mode": "RGB",
+    "opaque": true,
+    "chunks": [
+      "IHDR",
+      "sRGB",
+      "IDAT",
+      "IEND"
+    ],
+    "maskBBoxXYXYExclusive": [
+      1851,
+      916,
+      2560,
+      1175
+    ],
+    "maskPixels": 67131,
+    "changedPixels": 63093,
+    "unchangedOutsideMask": 3619269,
+    "changedOutsideMask": 0,
+    "laptopProtectedPixels": 13254,
+    "changedLaptop": 0,
+    "screenProtectedPixels": 4989,
+    "changedScreen": 0,
+    "silhouetteProtectedPixels": 4982,
+    "changedSilhouette": 0,
+    "pureBlack": 0,
+    "pureWhite": 0,
[4 lines of base64/hex data omitted]
+    "bytes": 4115376
+  },
+  "mobile": {
+    "file": "making-plate-mobile.png",
+    "dimensions": [
+      1080,
+      2340
+    ],
+    "mode": "RGB",
+    "opaque": true,
+    "chunks": [
+      "IHDR",
+      "sRGB",
+      "IDAT",
+      "IEND"
+    ],
+    "maskBBoxXYXYExclusive": [
+      601,
+      1703,
+      1080,
+      1931
+    ],
+    "maskPixels": 49761,
+    "changedPixels": 46533,
+    "unchangedOutsideMask": 2477439,
+    "changedOutsideMask": 0,
+    "laptopProtectedPixels": 11690,
+    "changedLaptop": 0,
+    "screenProtectedPixels": 4062,
+    "changedScreen": 0,
+    "silhouetteProtectedPixels": 3005,
+    "changedSilhouette": 0,
+    "pureBlack": 0,
+    "pureWhite": 0,
[4 lines of base64/hex data omitted]
+    "bytes": 3076536
+  }
+}
+```
+
+Before/after inspection crops (outside repo):
+
+- `C:/Users/peter/AppData/Local/Temp/making-cliff-light-20261103/desktop-before.png`
+- `C:/Users/peter/AppData/Local/Temp/making-cliff-light-20261103/desktop-after.png`
+- `C:/Users/peter/AppData/Local/Temp/making-cliff-light-20261103/mobile-before.png`
+- `C:/Users/peter/AppData/Local/Temp/making-cliff-light-20261103/mobile-after.png`
+
+The same directory contains `audit.json`, `spec.json`, `masks.py`, `refine.py`, `tighten.py`, `composite2.py`, and independent `{desktop,mobile}-{laptop,screen,silhouette}-protect.png` diagnostic masks (white marks protected pixels in these temporary diagnostics, unlike the production edit masks). PNG master hashes were checked again after saving. This appendix supersedes the earlier statement that original warm cliff-top paint was wholly retained; it was retained during moon removal, then selectively repaired here.

diff --git a/docs/art/sunrise/README.md b/docs/art/sunrise/README.md
@@ -32,8 +32,14 @@ Quality checks: every image visually inspected, exact dimensions verified, alpha
 
 ## sunrise-laptop.png
 
-- **sunrise-laptop.png**: closed generic anthracite/dusk laptop resting flat after the night shift, repainted against `sunrise-coffee.png`. Irregular sepia ink contour, granular watercolor, two stacked slabs with a darker seam and thicker base, visible rear hinge barrel and joints, subtle side port and small feet. Butter/cream light rakes from upper right into cool front/left shade. Dark occlusion and a short translucent shadow falling left ground it. No logo, text, ground patch, rock, cup or character. Place above the cliff path beside the existing coffee at the same pixel-to-scene scale.
-- `sunrise-laptop.png`: 1200×600, RGBA, **590,095 bytes**; generated native 1774×887. Transparent margins cropped, then Lanczos3-resampled to 983×389 and transparently padded to delivery size; no subject cropping. PNG compression level 9, graded alpha preserved, alpha < 3 → 0, no exact black/white.
-- Placement coordinates (zero-based from master top left): front-right corner ground-contact anchor **(766,500)** at the small rubber foot, visual horizontal center **x=599**. Body width **950 px**, versus the coffee mug's approximately 370 px including handle. The anchor excludes the feathered shadow, which extends to y=513.
-- Code glint: sunlit right lid edge box **(781,235,285,215)** as (x,y,width,height) in master pixels. The diagonal highlight runs approximately from (1058,245) to (790,442); follow the edge within the box.
-- QA: inspected on #FCD772 and #18191B, beside the coffee at equal 1:1 master scale, and on a cliff-path crop. Ink, pigment, scale and ground contact visually checked. Dimensions, transparent borders, graded alpha range 0–255 and absence of exact black/white verified. Original rejected for product-render contours, tablet-like form and weak grounding; repaint attempts rejected for regular contours and pale/gray shadow fringes. Final shadow correction removes the pale underlay. Temporary composites are outside the repository in `C:/Users/peter/AppData/Local/Temp/sunrise-laptop-repaint-y4y6oc/` (`laptop-butter.png`, `laptop-night.png`, `laptop-coffee-path.png`, `laptop-coffee-style.png`); numeric checks in `qa.json`. Full prompts and export details are in [PROMPTS.md](PROMPTS.md).
+Replaced on 2026-11-03. Closed warm silver-gray laptop, slightly askew on a low charcoal-gray rock, with a dark painted contact shadow, dry grass and butter/ochre sunlight from the right. Fine anthracite ink, granular watercolor and paper tooth are matched to the coffee mug. No logo, text, stickers or visible screen. The previously rejected laptop was not used as a reference.
+
+- Delivery: **1400×700, 8-bit RGBA, 1,104,418 bytes**. Native generation: **1774×887**; the complete canvas was Lanczos3-downsampled without cropping or distortion.
+- Coordinates use zero-based final-master pixels. Rock-bottom ground-contact anchor: **(450,625)**, including the lowest retained fractional-alpha fringe. Rock top surface: **y≈322** at its highest visible rear-left edge; the supporting surface immediately below the laptop front at x=700 is **y≈458**. The rock is a perspective plane, not a horizontal line.
+- Laptop body bbox, manually measured including the ink perimeter and excluding rock/shadow: **(191,151,1047,334)** as (x,y,width,height); outer limits approximately x=191–1238, y=151–485.
+- Mug-scale assumption: the existing 600×600 coffee master has a mug width of approximately **370 px including its handle**, excluding its rock. Target laptop body width is **2.2× the mug width**. For laptop master scale 1, use coffee master scale **1.28624** (or laptop scale **0.77746** with coffee scale 1). These are independent asset scales; equal canvas widths or equal pixel scales do not give the intended ratio.
+- QA comparison uses laptop scale **0.55** and coffee scale **0.70743**: approximately **575.85 px** laptop body versus **261.75 px** mug. Both sit on a 1400×600 crop of sunrise-cliff-path.png in a 1400×900 butter-background composite. Thin ink contours and granular washes were visually compared at this scale.
+- Pixel QA: transparent borders on all four sides; alpha bounds **(41,151)–(1362,625)** inclusive; **254 distinct alpha levels**, **447,944 fractional-alpha pixels**, 531,439 transparent and 617 fully opaque pixels. Alpha values 1 and 2 are absent. **Zero exact #000000/#FFFFFF RGB pixels**, including hidden RGB. **Zero blue pixels** using HSV hue 170–280° and saturation >8% among visible pixels. Body-mask saturation/alpha-weighted circular mean hue: **31.15°**, warm. The 128 residual blue numerical pixels were neutralized during export; no global color grading.
+- Inspected on **#FCD772** and **#1C1D1D**: no painted checkerboard, matte or pale halo; complete subject retained. Generated contact shadow visibly joins laptop to rock. Final PNG pixels round-trip exactly through decoding.
+- **Three new generation attempts.** Attempt 1 rejected for a champagne-gold body and overly uniform perimeter. Attempt 2 selected for warm silver-gray balance, lower camera angle, fine ink and contact shadow. Attempt 3 rejected for a more top-down lid view and tighter side margins, despite stronger stone contrast.
+- QA files outside the repository: `C:/Users/peter/AppData/Local/Temp/sunrise-laptop-warm-wHTTQ3/laptop-butter.png`, `C:/Users/peter/AppData/Local/Temp/sunrise-laptop-warm-wHTTQ3/laptop-night.png`, `C:/Users/peter/AppData/Local/Temp/sunrise-laptop-warm-wHTTQ3/laptop-coffee-path.png`, `C:/Users/peter/AppData/Local/Temp/sunrise-laptop-warm-wHTTQ3/contact-detail.png`, and numeric checks in `C:/Users/peter/AppData/Local/Temp/sunrise-laptop-warm-wHTTQ3/qa.json`. Exact prompts and export details: [PROMPTS.md](PROMPTS.md).

diff --git a/docs/art/making/README.md b/docs/art/making/README.md
@@ -40,3 +40,16 @@ Pixel-diff verification against the pre-edit originals found **zero changed pixe
 Keep these large masters outside the shipped bundle. Generate optimized responsive AVIF/WebP derivatives during implementation; the homepage handoff budgets are approximately 250 kB for initial hero images and 400 kB per subsequent section. No application files or optimized derivatives were changed here. All requested layers are present; the material limitation is that final target dimensions are resampled from smaller built-in generations.
 
 Exact generation prompts and ordered input references: [PROMPTS.md](PROMPTS.md).
+
+
+## Local cliff illumination repair - 2026-11-03
+
+Repaired both plate masters in place. The broad ochre surface stripe on the main laptop ledge is now dark anthracite away from a localized warm pool beneath the laptop, with sparse separated catch-lights. Detached warm background fringe on the exterior of the bezel was replaced with dark generated night pigment. The laptop body, blank screen and protected cliff silhouette retain their original RGB pixels. The mandatory two-pixel silhouette guard retains its original color, including a thin warm hairline; the lower stepped ledges and existing background washes were outside this repair.
+
+Built-in `image_gen.imagegen` was used, with highest quality requested. It exposes no model/quality selector or native mask parameter. Two generations per plate were inspected: the first pair was rejected for an overly continuous cool-grey rim and harder, more geometric pigment. The second pair was selected after mask refinement. Full plates, native-size crops and 400% bezel crops were inspected. Only masked generated pigment was composited; no whole-plate resizing, laptop regeneration or registration changes were applied to the masters.
+
+Exact grayscale masks (black = keep, white = repaint, grey = feather): [desktop](cliff-light-masks/desktop.png), [mobile](cliff-light-masks/mobile.png). Half-open support bounds: desktop **(1851, 916, 2560, 1175)**; mobile **(601, 1703, 1080, 1931)**. These bounds contain protected holes and are not rectangular replacements.
+
+Audits against pre-edit backup files: desktop **63,093** changed pixels within **67,131** mask-support pixels; mobile **46,533** changed within **49,761**. Both have **0** changed pixels outside mask support, **0** changes in protected laptop/frame/body, **0** in screen interiors, and **0** in the two-pixel silhouette guards. Untouched outside-mask RGB counts: **3,619,269** desktop and **2,477,439** mobile; before/after SHA-256 digests match. Both retain original dimensions (2560x1440 / 1080x2340), opaque 8-bit RGB, sRGB rendering intent 0, and **0** exact #000000 / #FFFFFF pixels. Saved masters were read back and their hashes verified.
+
+Original backups, before/after native-size crops, protection masks, rejected candidates and reproduction scripts remain outside the repository at `C:/Users/peter/AppData/Local/Temp/making-cliff-light-20261103/`. Crops are `desktop-before.png`, `desktop-after.png`, `mobile-before.png`, `mobile-after.png`. Full exact prompts, generation paths and audit hashes are appended to PROMPTS.md. No code, derivatives or other art assets were changed.
